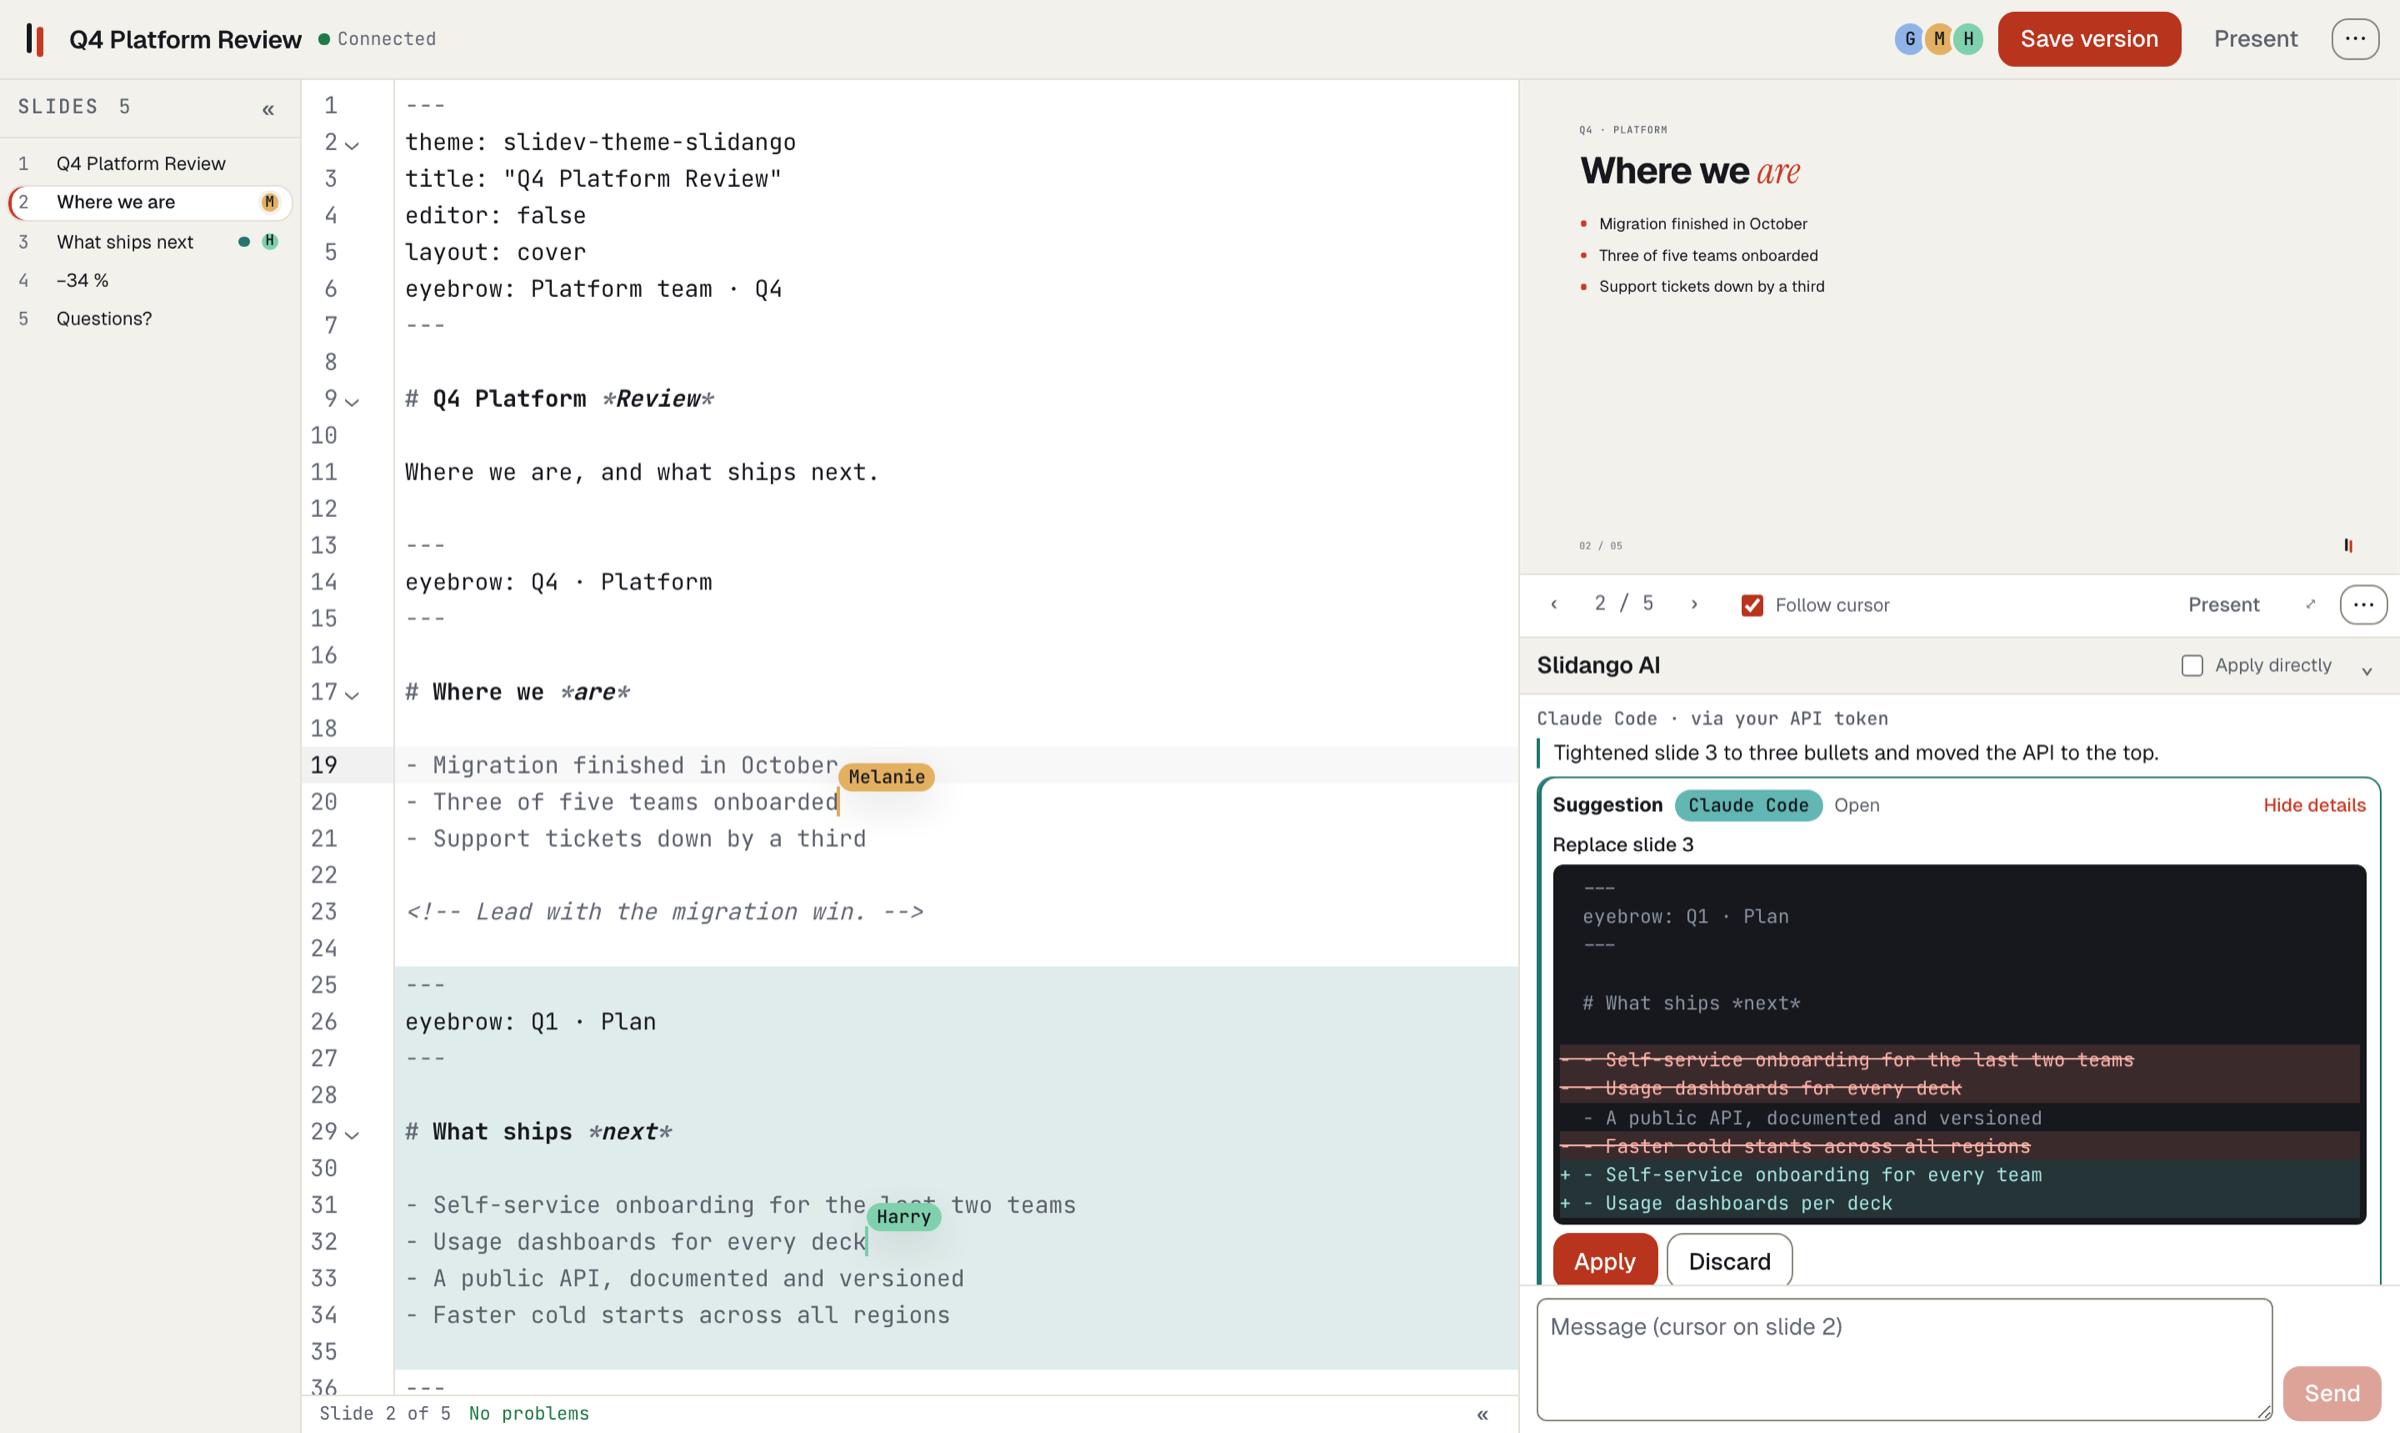
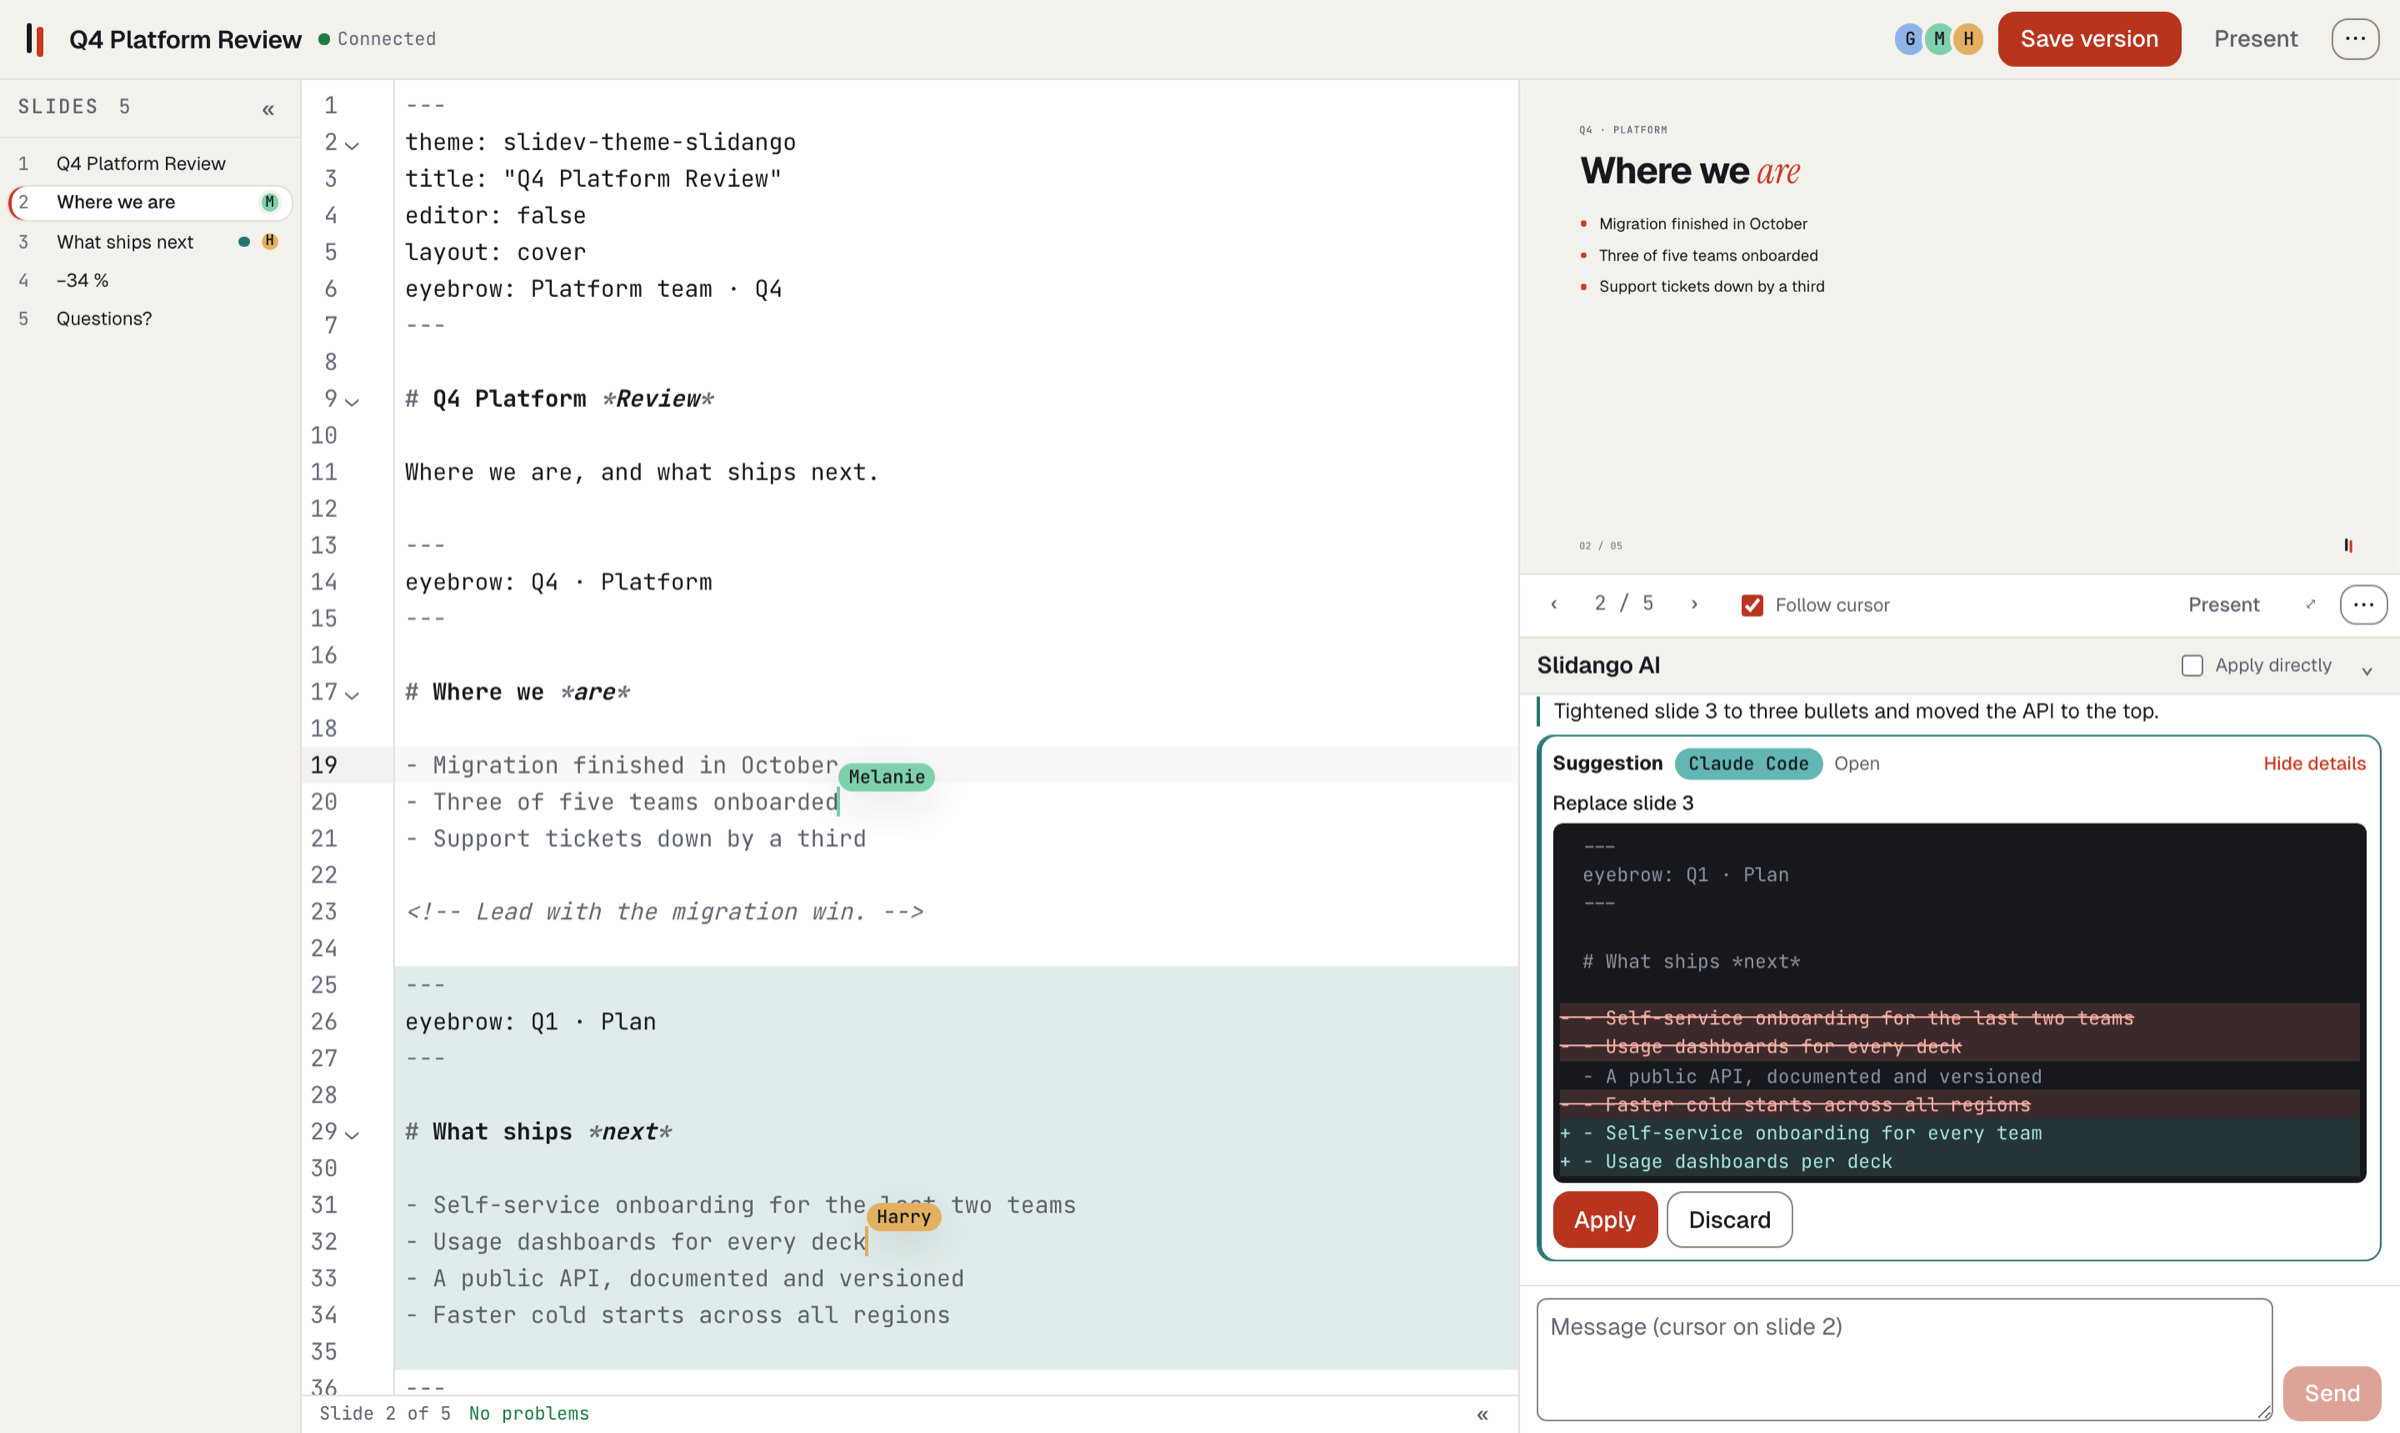
Slidango AI panel keeps the newest card in view
The message list stays scrolled to the end while the panel resizes and
while cards render their diff, so a suggestion from an MCP client is no
longer cut off at the bottom. Reading older messages is not interrupted.

diff --git a/apps/web/src/components/AssistantPanel.vue b/apps/web/src/components/AssistantPanel.vue
@@ -21,6 +21,7 @@ const streaming = ref<string | null>(null)
 const error = ref<string | null>(null)
 const configured = ref(true)
 const list = ref<HTMLElement>()
+const content = ref<HTMLElement>()
 const textarea = ref<HTMLTextAreaElement>()
 let controller: AbortController | null = null
 
@@ -64,7 +65,9 @@ async function load() {
   const state = await api.llmState(props.deckId, session)
   // The user switched conversations while this request ran.
   if (session !== sessionId.value) return
-  const grew = state.messages.length !== messages.value.length
+  const openExternal = (list: Proposal[]) => list.filter((p) => p.source === 'mcp' && p.status === 'open').length
+  // New messages, or a new suggestion from an MCP client, scroll into view.
+  const grew = state.messages.length !== messages.value.length || openExternal(state.proposals) > openExternal([...proposals.value.values()])
   sessions.value = state.sessions
   messages.value = state.messages
   proposals.value = new Map(state.proposals.map((p) => [p.id, p]))
@@ -72,8 +75,28 @@ async function load() {
 }
 
 function scrollDown() {
+  stickToBottom = true
   void nextTick(() => list.value?.scrollTo({ top: list.value.scrollHeight }))
 }
+
+/**
+ * Keeps the newest message in view while the panel resizes (the preview above settles its height
+ * after the first render, and the user drags dividers). Only while the list is scrolled to the end,
+ * so reading older messages is never interrupted.
+ */
+let stickToBottom = true
+function onScroll() {
+  const el = list.value
+  if (el) stickToBottom = el.scrollTop + el.clientHeight >= el.scrollHeight - 8
+}
+const resizeObserver = new ResizeObserver(() => {
+  if (stickToBottom && list.value) list.value.scrollTop = list.value.scrollHeight
+})
+// Both the list's box (panel resizes) and its content (cards render their diff late) count.
+watch([list, content], (els, olds) => {
+  for (const el of olds ?? []) if (el) resizeObserver.unobserve(el)
+  for (const el of els) if (el) resizeObserver.observe(el)
+})
 
 async function send() {
   const text = input.value.trim()
@@ -128,6 +151,7 @@ onMounted(async () => {
   await load()
 })
 onBeforeUnmount(() => {
+  resizeObserver.disconnect()
   clearInterval(timer)
   controller?.abort()
 })
@@ -171,7 +195,8 @@ defineExpose({ focus: () => textarea.value?.focus() })
       <button v-if="collapsible" class="ghost icon" title="Collapse Slidango AI" aria-label="Collapse Slidango AI" @click="emit('collapse')">⌄</button>
     </header>
     <p v-if="!configured" class="hint">No LLM configured. An admin can set one up under Settings → Slidango AI on the overview page.</p>
-    <div ref="list" class="messages">
+    <div ref="list" class="messages" @scroll.passive="onScroll">
+      <div ref="content" class="messages-inner">
       <div v-for="proposal in external" :key="proposal.id" class="message assistant external">
         <div class="author">{{ proposal.client ?? 'MCP client' }} · via your API token</div>
         <div v-if="proposal.summary" class="text">{{ proposal.summary }}</div>
@@ -196,6 +221,7 @@ defineExpose({ focus: () => textarea.value?.focus() })
         <div class="text">{{ streaming || '…' }}</div>
       </div>
       <p v-if="error" class="error">{{ error }}</p>
+      </div>
     </div>
     <form v-if="!readOnly" class="composer" @submit.prevent="send">
       <textarea
@@ -218,7 +244,8 @@ header { display: flex; gap: 0.5rem; align-items: center; padding: 0.3rem 0.4rem
 h2 { font-size: 14px; font-weight: 600; margin: 0; flex: 1; }
 .auto { font-size: 0.8rem; display: flex; gap: 0.3rem; align-items: center; }
 .hint { margin: 0; padding: 0.5rem 0.75rem; font-size: 0.85rem; background: var(--warning-soft); color: var(--warning); }
-.messages { flex: 1; overflow: auto; padding: 0.6rem 0.75rem; display: flex; flex-direction: column; gap: 0.6rem; }
+.messages { flex: 1; min-height: 0; overflow: auto; }
+.messages-inner { padding: 0.6rem 0.75rem 1rem; display: flex; flex-direction: column; gap: 0.6rem; }
 .empty { font-size: 0.85rem; }
 .message { display: flex; flex-direction: column; gap: 0.35rem; font-size: 0.9rem; }
 .message.user { align-items: flex-end; }
